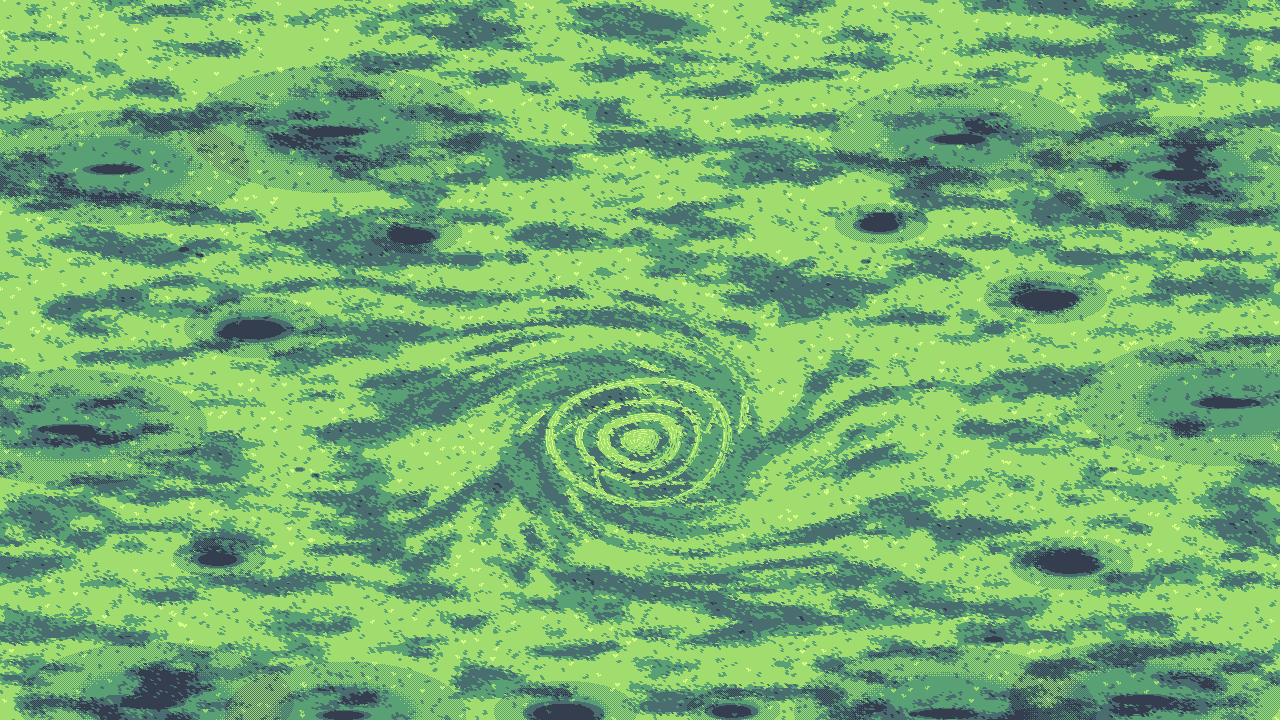
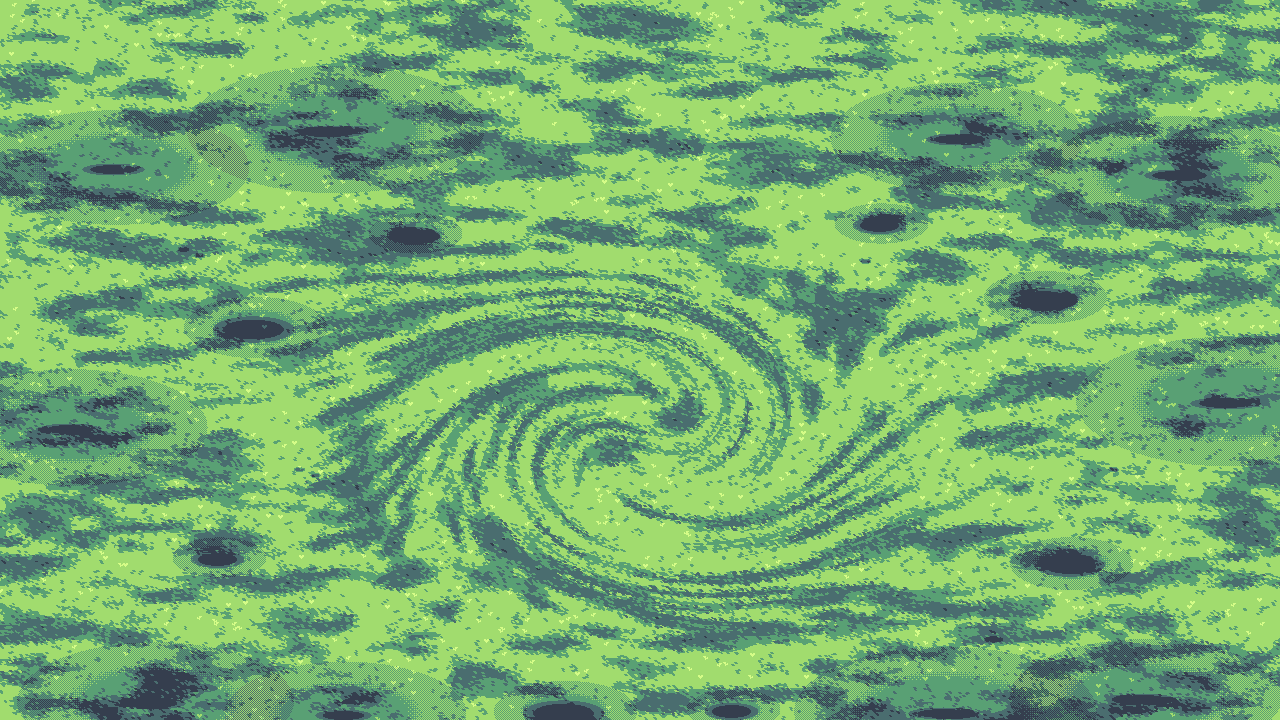
Prato dell'arrivo: via il cerchio nel grano, solo il prato torto
Bru: "troppo definito il cerchio, facciamo solo effetto warped". Niente piu'
anelli, raggi e cerchietti d'erba posata: e' il prato stesso, con le sue
macchie, a essere torto attorno al punto dove appare Lei (girato a spirale,
tirato verso il centro, un poco ondulato); foglie, luci e fiori si fanno dopo,
dritti come dappertutto. Niente fiori in piedi proprio dove appare Lei.

Claude-Session: https://claude.ai/code/session_01AE7uzpDH1Lo1PHb29aXJxZ

diff --git a/strumenti/livelli/arrivo.py b/strumenti/livelli/arrivo.py
@@ -3,15 +3,16 @@
 # gliela spiega).
 #
 #   python3 strumenti/livelli/arrivo.py [cartella_anteprime]          (serve numpy e Pillow)
-#   python3 strumenti/livelli/arrivo.py --cerchio prova.png            (solo il cerchio, in fretta, per provarlo)
+#   python3 strumenti/livelli/arrivo.py --warp prova.png               (solo il prato torto, in fretta, per provarlo)
 #
 # - 'comparsa': il prato dove appare Lei. Bru: "nel punto in cui appari il terreno deve essere deformato tipo cerchio nel
-#   grano ma come se lo spazio fosse stato distorto". Un cerchio nel grano vero e proprio (il nido al centro, gli
-#   anelli d'erba posata, i raggi, i cerchietti attorno) e poi lo spazio torto: tutto e' girato attorno al centro,
-#   tanto al centro e niente lontano (i raggi diventano spirali, i cerchietti virgole, le macchie del prato attorno si
-#   avvolgono), e gli anelli ondeggiano. L'erba posata e' chiara, pettinata nel verso dell'anello, e luccica dalla
-#   parte della luce (in alto a sinistra); l'erba in piedi fra gli anelli e' fitta e piu' scura, ci fa ombra sopra e ci
-#   sporge con le foglioline, come i bordi delle macchie del prato. A nord si esce verso la radura della Guida.
+#   grano ma come se lo spazio fosse stato distorto"; poi, visto il cerchio nel grano coi suoi anelli: "troppo definito
+#   il cerchio, facciamo solo effetto warped". Quindi niente figure disegnate: e' il prato stesso, con le sue macchie,
+#   a essere torto attorno al punto dove appare Lei, come se lo spazio li' si fosse avvitato. Le macchie si prendono
+#   da dove stavano prima della torsione: girate attorno al centro (tanto vicino, niente lontano: diventano bracci a
+#   spirale), tirate verso il centro (il risucchio: vicino a Lei i bracci si stringono) e un poco ondulate. Le foglie,
+#   le luci e i fiori del prato si fanno dopo, sul prato torto, dritti come dappertutto (prato.py, 'deforma').
+#   A nord si esce verso la radura della Guida.
 # - 'guida': uno spazio vuoto. Bru: "dove il personaggio si ferma a discutere con l'AI che gli spiega le basi della
 #   mappa". Una radura di prato coi fiori, gli alberi solo attorno; a nord il pasto del goblin, a sud la comparsa.
 #
@@ -35,21 +36,15 @@ import pasto_goblin as pg         # noqa: E402  le ombre, i passi, le rampe (le 
 
 LIV = rr.LIV
 PRATO = rr.PRATO
-RAMPA = rr.PRATO_RAMPA            # profondo, scuro, medio, base, luce
-PROFONDO, SCURO, MEDIO, BASE, LUCE = range(5)
 W = 1280
 FASCIA = (440, 840)               # dove si passa da una zona all'altra
 
-# ---------------------------------------------------------------- il cerchio storto
+# ---------------------------------------------------------------- il prato torto
 SQ = 0.72                         # il suolo di tre quarti: un cerchio per terra e' un ovale (come le vasche)
-TORSIONE, L_TORSIONE = 2.6, 125.0                     # quanto gira al centro (radianti) e fin dove arriva
-ONDE, L_ONDE = ((0.07, 3, 0.8), (0.04, 2, -1.1)), 110.0   # gli anelli che ondeggiano: (quanto, lobi, fase)
-NIDO = 19                                             # il nido al centro, dove appare Lei
-ANELLI = ((28, 42), (54, 62), (82, 92))               # gli anelli d'erba posata (dal raggio al raggio)
-RAGGI = [2 * np.pi * k / 5 + 0.35 for k in range(5)]  # i raggi fra il secondo e il terzo anello
-SATELLITI = [(108.0, a + np.pi / 5, 11.0) for a in RAGGI]  # i cerchietti fuori (raggio, angolo, grandezza)
-LUCE_DA = np.arctan2(-1.0, -1.0)                      # la luce viene da in alto a sinistra
-PASSO_RIGHE = 3.0                                     # l'erba posata: una riga di steli ogni tre pixel
+TORSIONE, L_TORSIONE = 3.6, 160.0                     # quanto gira al centro (radianti) e fin dove arriva
+RISUCCHIO, L_RISUCCHIO = 0.9, 80.0                    # quanto tira verso il centro e fin dove
+ONDE, L_ONDE = ((0.07, 3, 0.8), (0.04, 2, -1.1)), 110.0   # le onde attorno: (quanto, lobi, fase)
+SENZA_FIORI = 70                  # attorno al punto dove appare Lei niente fiori in piedi
 
 
 def polari(H, W_, c):
@@ -61,11 +56,11 @@ def polari(H, W_, c):
 
 def disfa(r, th):
     """dove stava, prima che lo spazio si torcesse, il punto che ora e' a raggio r e angolo th: girato indietro
-    (tanto al centro, niente lontano) e coi cerchi ondulati"""
+    (tanto al centro, niente lontano), preso piu' in fuori vicino al centro (il risucchio) e un poco ondulato"""
     g = np.exp(-(r / L_TORSIONE) ** 2)
     w = np.exp(-(r / L_ONDE) ** 2)
     eps = w * sum(a * np.sin(k * th + f) for a, k, f in ONDE)
-    return r * (1 + eps), th - TORSIONE * g
+    return r * (1 + eps) * (1 + RISUCCHIO * np.exp(-(r / L_RISUCCHIO) ** 2)), th - TORSIONE * g
 
 
 def _bilineare(F, x, y):
@@ -77,106 +72,13 @@ def _bilineare(F, x, y):
             + F[y0 + 1, x0 + 1] * fx * fy)
 
 
-def deforma_macchie(c, fin_dove=132, scuro=0.42):
-    """per il prato: le macchie prese da dove stavano prima della torsione (si avvolgono attorno al centro); e dentro
-    il cerchio l'erba in piedi e' fitta: il campo sta fra le due soglie (il medio, a tratti lo scuro)"""
+def deforma_macchie(c):
+    """per il prato: il campo delle macchie preso da dove stava prima che lo spazio si torcesse"""
     def f(F):
         H, W_ = F.shape
-        r, th = polari(H, W_, c)
-        rho, phi = disfa(r, th)
-        G = _bilineare(F, c[0] + rho * np.cos(phi), c[1] + SQ * rho * np.sin(phi))
-        t1, t2 = np.quantile(F, [1 - scuro, 1 - scuro * 0.36])
-        lo, hi = np.quantile(F, [0.05, 0.95])
-        alto = t1 + 0.02 + np.clip((G - lo) / (hi - lo), 0, 1) * (t2 - t1) * 1.35
-        w = np.clip((fin_dove + 18 - rho) / 30.0, 0, 1)
-        return G * (1 - w) + alto * w
+        rho, phi = disfa(*polari(H, W_, c))
+        return _bilineare(F, c[0] + rho * np.cos(phi), c[1] + SQ * rho * np.sin(phi))
     return f
-
-
-def _caso(*k):
-    """un numero fra 0 e 1 fisso per ogni combinazione di interi"""
-    h = np.zeros(np.broadcast(*k).shape, np.int64) + 1469598103
-    for v in k:
-        h = (h ^ (np.asarray(v, np.int64) & 0xffffffff)) * 16777619 % 4294967296
-        h = (h ^ (h >> 13)) * 1274126177 % 4294967296
-    return (h % 100003) / 100003.0
-
-
-def posato(H, W_, c):
-    """l'erba posata del cerchio: per ogni pixel il gradino della rampa del prato (-1 dove l'erba e' in piedi).
-    Ogni pezzo ha le sue coordinate: 'v' attraverso le righe degli steli, 'u' lungo; negli anelli le righe girano
-    attorno, nei raggi vanno dritte (in fuori), nei cerchietti girano attorno al loro centro, nel nido sono una
-    spirale. Le righe sono a tratti; dalla parte della luce sono chiare (luce), dall'altra scure (medio)"""
-    r, th = polari(H, W_, c)
-    rho, phi = disfa(r, th)
-    u = np.zeros((H, W_)); v = np.zeros((H, W_)); pezzo = np.full((H, W_), -1)
-    nido = rho < NIDO
-    v[nido] = rho[nido] + 2 * PASSO_RIGHE * (phi[nido] / (2 * np.pi))
-    u[nido] = phi[nido] * np.maximum(rho[nido], 4)
-    pezzo[nido] = 0
-    for i, (a, b) in enumerate(ANELLI):
-        m = (rho >= a) & (rho < b)
-        v[m] = rho[m]; u[m] = phi[m] * rho[m]; pezzo[m] = 1 + i
-    a, b = ANELLI[1][1], ANELLI[2][0]
-    for k, ak in enumerate(RAGGI):
-        d = rho * np.sin(phi - ak)
-        m = (np.abs(d) < 4.5) & (np.cos(phi - ak) > 0) & (rho >= a - 1) & (rho < b + 1) & (pezzo < 0)
-        v[m] = d[m] + 30; u[m] = rho[m]; pezzo[m] = 10 + k
-    X, Y = rho * np.cos(phi), rho * np.sin(phi)
-    for k, (rs, ang, gr) in enumerate(SATELLITI):
-        px, py = X - rs * np.cos(ang), Y - rs * np.sin(ang)
-        dd = np.hypot(px, py)
-        m = (dd < gr) & (pezzo < 0)
-        v[m] = dd[m]; u[m] = np.arctan2(py[m], px[m]) * np.maximum(dd[m], 3); pezzo[m] = 20 + k
-    piatta = pezzo >= 0
-    s = np.floor(v / PASSO_RIGHE).astype(int)
-    riga = (v / PASSO_RIGHE - s) < 0.36
-    tratto = ((u + _caso(s, pezzo) * 11) % 11) < 8
-    chiaro = 0.3 + 0.7 * (0.5 + 0.5 * np.cos(th - LUCE_DA))   # dalla parte della luce l'erba posata luccica
-    L = np.full((H, W_), -1)
-    L[piatta] = BASE
-    linea = piatta & riga & tratto
-    L[linea] = np.where(_caso(s, pezzo, 7)[linea] < chiaro[linea], LUCE, MEDIO)
-    return L, rho
-
-
-def cerchio(out, c, rng):
-    """il cerchio storto sul prato fatto (out: i colori, float): l'erba posata, l'ombra dell'erba in piedi sopra
-    quella posata (la luce viene da in alto a sinistra: l'ombra cade in basso a destra), le foglioline dell'erba in
-    piedi che sporgono nell'erba posata e qualche stelo chiaro dell'erba posata che resta su; poi via i pixel soli.
-    Rende anche dove non vanno i fiori (il cerchio e un po' attorno)"""
-    H, W_ = out.shape[:2]
-    L, rho = posato(H, W_, c)
-    piatta = L >= 0
-    # l'ombra: un pixel d'erba posata con l'erba in piedi subito in alto a sinistra (l'erba e' bassa: un pixel)
-    inpiedi = ~piatta
-    om = np.zeros((H, W_), bool)
-    om[1:, 1:] = inpiedi[:-1, :-1]
-    om &= piatta
-    L[om] = np.maximum(L[om] - 1, MEDIO)
-    for i in range(5):
-        out[L == i] = RAMPA[i]
-    # le foglioline ai bordi: dall'erba in piedi nell'erba posata (dello stesso colore dell'erba in piedi accanto) e,
-    # meno, dall'erba posata nell'erba in piedi (chiare)
-    d_dentro = _prato.distanza(inpiedi, 3)                # quanti passi dall'erba in piedi, nell'erba posata
-    d_fuori = _prato.distanza(piatta, 3)
-    vicino = np.rint(out).astype(int)
-    ys, xs = np.nonzero(((d_dentro >= 1) & (d_dentro <= 2)) | ((d_fuori >= 1) & (d_fuori <= 2)))
-    for y, x in zip(ys, xs):
-        f = _prato.FOGLIE[rng.integers(len(_prato.FOGLIE))]
-        if piatta[y, x] and rng.random() < (0.06 if d_dentro[y, x] == 1 else 0.025):
-            yy, xx = max(0, y - 2), max(0, x - 2)
-            vic = inpiedi[yy:y + 3, xx:x + 3]
-            if vic.any():
-                py, px = np.argwhere(vic)[0]
-                col = vicino[yy + py, xx + px].astype(float)
-                _prato.timbra(out, f, x - 1, y - 1, col, piatta)
-        elif inpiedi[y, x] and rho[y, x] < 120 and rng.random() < 0.03:
-            _prato.timbra(out, f, x - 1, y - 1, RAMPA[BASE], inpiedi)
-    q = np.clip(np.rint(out), 0, 255).astype(np.uint8)
-    _prato.pulisci(q)
-    out[:] = q
-    return rho < 150
 
 
 # ---------------------------------------------------------------- le due zone
@@ -185,7 +87,7 @@ def cerchio(out, c, rng):
 ZONE = {
     'comparsa': {
         'H': 720, 'seme': 83, 'semi_fiori': (91, 37), 'nome': "Il prato dell'arrivo",
-        'cerchio': (640, 440),
+        'warp': (640, 440),
         'alberi': [('albero_alto_dritto_1', 110, 170), ('albero_alto_dritto_2', 330, 132),
                    ('albero_alto_dritto_3', 952, 140), ('albero_alto_dritto_1', 1172, 176),
                    ('albero_alto_2', 66, 430), ('albero_alto_3', 1222, 404),
@@ -197,16 +99,15 @@ ZONE = {
         'sassi': [('sasso_4', 296, 470), ('sassolino_2', 312, 476), ('masso_basso_4', 990, 640),
                   ('sasso_2', 862, 262), ('sassolino_1', 1110, 470), ('sasso_5', 180, 250), ('sassolino_3', 196, 256)],
         'partenza': [640, 440], 'verso': [0, 1],
-        'stanze': [{"nome": "Il cerchio storto", "rett": [500, 340, 780, 540]},
+        'stanze': [{"nome": "Dove appare Lei", "rett": [500, 340, 780, 540]},
                    {"nome": "Verso la radura", "rett": [440, 0, 840, 200]},
                    {"nome": "Il prato dell'arrivo", "rett": [0, 0, W, 720]}],
-        'nota': "Il prato dove il proiettore lascia Lei, fatto da strumenti/livelli/arrivo.py: dove appare l'erba e' "
-                "posata a cerchi come un cerchio nel grano, ma torta come se lo spazio si fosse distorto; a nord la "
-                "radura della Guida.",
+        'nota': "Il prato dove il proiettore lascia Lei, fatto da strumenti/livelli/arrivo.py: attorno al punto "
+                "dove appare il prato e' torto, come se lo spazio li' si fosse avvitato; a nord la radura della Guida.",
     },
     'guida': {
         'H': 640, 'seme': 71, 'semi_fiori': (73, 41), 'nome': "La radura della Guida",
-        'cerchio': None,
+        'warp': None,
         'alberi': [('albero_alto_dritto_2', 104, 160), ('albero_alto_dritto_1', 322, 128),
                    ('albero_alto_dritto_3', 958, 134), ('albero_alto_dritto_2', 1178, 168),
                    ('albero_alto_3', 62, 420), ('albero_alto_1', 1226, 380),
@@ -246,12 +147,10 @@ def fai_zona(nome, anteprime=None):
     H = z['H']
     tutte = impiedi(z)
     segni = []
-    c = z['cerchio']
+    c = z['warp']
     p4, _ = _prato.prato(H, W, seme=z['seme'], tav=PRATO, fiori=segni, deforma=deforma_macchie(c) if c else None)
     out = p4[3].astype(float)
-    senza_fiori = np.zeros((H, W), bool)
-    if c:
-        senza_fiori = cerchio(out, c, np.random.default_rng(z['seme']))
+    senza_fiori = (polari(H, W, c)[0] < SENZA_FIORI) if c else np.zeros((H, W), bool)
     out, ombra = pg.ombre(out, tutte)
     rr._salva(out, os.path.join(LIV, nome + '.png'))
     rr._salva(pg.passi(tutte, misura=(H, W)), os.path.join(LIV, nome + '_passi.png'))
@@ -261,7 +160,7 @@ def fai_zona(nome, anteprime=None):
         erba |= np.all(q == np.array(col), axis=-1)
     pr = np.zeros((H, W, 4), np.uint8); pr[erba] = (255, 255, 255, 255)
     rr._salva(pr, os.path.join(LIV, nome + '_prato.png'))
-    # i fiori in piedi: come al pasto (dove il prato li avrebbe messi, al sole, dove si cammina); non nel cerchio
+    # i fiori in piedi: come al pasto (dove il prato li avrebbe messi, al sole, dove si cammina); non dove appare Lei
     macchie = _prato.liscio(H, W, 170, 110, z['semi_fiori'][0])
     q1, q2 = np.quantile(macchie, [0.62, 0.86])
     rng = np.random.default_rng(z['semi_fiori'][1])
@@ -314,21 +213,18 @@ def fai_zona(nome, anteprime=None):
     print('%s: mappa %dx%d, %d cose in piedi, %d fiori' % (nome, W, H, len(tutte), len(fiori)))
 
 
-# ---------------------------------------------------------------- prova veloce del solo cerchio
-def prova_cerchio(percorso):
-    H, W_ = 360, 480
-    c = (240, 190)
+# ---------------------------------------------------------------- prova veloce del solo prato torto
+def prova_warp(percorso):
+    H, W_ = 380, 520
+    c = (260, 200)
     p4, _ = _prato.prato(H, W_, seme=83, tav=PRATO, fiori=[], deforma=deforma_macchie(c))
-    out = p4[3].astype(float)
-    cerchio(out, c, np.random.default_rng(5))
-    a = Image.fromarray(np.clip(out, 0, 255).astype(np.uint8))
-    a.resize((W_ * 2, H * 2), Image.NEAREST).save(percorso)
+    Image.fromarray(p4[3]).resize((W_ * 2, H * 2), Image.NEAREST).save(percorso)
     print(percorso)
 
 
 if __name__ == '__main__':
-    if len(sys.argv) > 2 and sys.argv[1] == '--cerchio':
-        prova_cerchio(sys.argv[2])
+    if len(sys.argv) > 2 and sys.argv[1] == '--warp':
+        prova_warp(sys.argv[2])
     else:
         for n in ZONE:
             fai_zona(n, sys.argv[1] if len(sys.argv) > 1 else None)

diff --git a/strumenti/prova_corsa/costruisci.py b/strumenti/prova_corsa/costruisci.py
@@ -138,10 +138,9 @@ dati['ferme'] = {'attese': {'giu': ferma('attesa', 'davanti_attesa', 40), 'su': 
 # pagina qui, al posto di quelli del ruscello; e dove non c'e' acqua, i comandi dell'acqua nascosti
 TESTI = {
     'comparsa': {'titolo': "L'arrivo nelle pianure",
-                 'sotto': "Lei appare qui, dove la lascia il proiettore: sotto i suoi piedi il prato e' piegato a "
-                          "cerchi come un cerchio nel grano, ma storto, come se lo spazio si fosse torto (gli anelli "
-                          "d'erba posata ondeggiano, i raggi sono diventati spirali, i cerchietti virgole, le macchie "
-                          "del prato attorno si avvolgono). A nord la radura vuota dove Lei si ferma e la Guida le "
+                 'sotto': "Lei appare qui, dove la lascia il proiettore: attorno ai suoi piedi il prato e' torto, "
+                          "come se lo spazio li' si fosse avvitato (le macchie dell'erba girano a spirale e si "
+                          "stringono verso di lei). A nord la radura vuota dove Lei si ferma e la Guida le "
                           "spiega la mappa, poi il pasto del goblin e, su per la strada di mattoni, il ruscello di "
                           "Radenna: in cima a ogni zona si passa alla successiva, in fondo si torna indietro. Come "
                           "altrove: le nuvole e le macchie di sole, i fiori e il prato al vento, l'erba che si muove "
